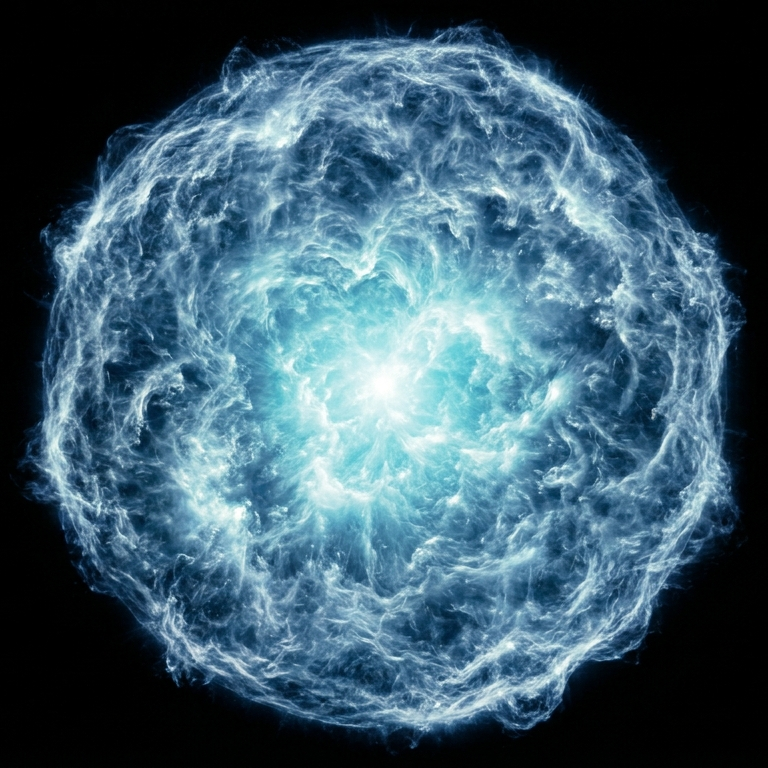
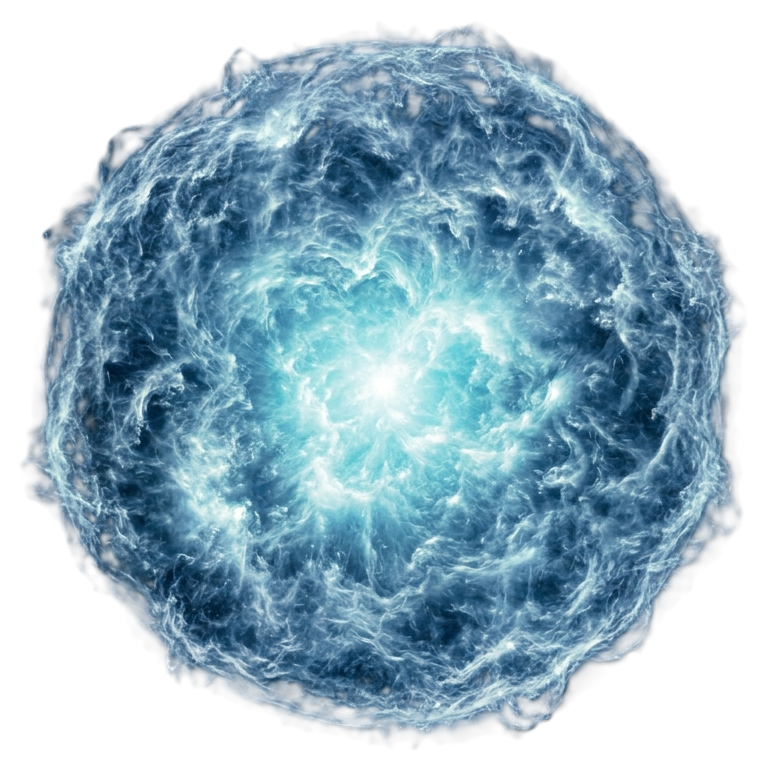
enemys spawning

diff --git a/src/main.ts b/src/main.ts
@@ -6,19 +6,45 @@ import { Bulett } from "./Bulett";
 export let wave: number = 0;
 let enemys: Enemy[] = [];
 let coins: number = 500;
+let spawnInterval: number;
 
 const startBTN: HTMLDivElement = document.querySelector(
 	".startBTN",
 ) as HTMLDivElement;
-const coinsSpan: HTMLSpanElement = document.querySelector(".coinSpan") as HTMLSpanElement
+const coinsSpan: HTMLSpanElement = document.querySelector(
+	".coinSpan",
+) as HTMLSpanElement;
 
-startBTN.addEventListener
+coinsSpan.innerHTML = coins.toString();
+startBTN.addEventListener("click", () => {
+	(document.querySelector(".startportal") as HTMLDivElement).style.opacity =
+		"1";
+	(document.querySelector(".endportal") as HTMLDivElement).style.opacity = "1";
+	EnemySpawner();
+	startBTN.style.display = "none";
+	spawnInterval = setInterval(() => {
+		enemys.forEach((e) => {
+			e.Move();
+		}, 16);
+	});
+});
 
-
-function KilledByTuret(e: Enemy): void {
+function Killed(e: Enemy): void {
 	let index: number = enemys.indexOf(e);
 	enemys.splice(index, 1);
 	e.Destroy();
 	coins += e.Reward;
-	coinsSpan.innerHTML = coins.toString()
+	coinsSpan.innerHTML = coins.toString();
+}
+
+function EnemySpawner(): void {
+	let amountToSpawn: number = Math.floor(23 * 1.2 ** (wave - 1));
+	for (let i = 0; i < amountToSpawn; i++) {
+		setTimeout(
+			() => {
+				enemys.push(new Enemy((e: Enemy) => Killed(e)));
+			},
+			i * (400 / 1.2 ** (wave - 1)),
+		);
+	}
 }

diff --git a/src/style.css b/src/style.css
@@ -2,14 +2,9 @@ body {
 	background-image: url(assets/Background.png);
 	background-size: cover;
 	background-repeat: repeat-y;
-}
-
-.curtain {
-	position: absolute;
-	z-index: 5;
-	width: 99%;
-	height: 95%;
-	background-color: black;
+	font-family:
+		"Gill Sans", "Gill Sans MT", Calibri, "Trebuchet MS", sans-serif;
+	user-select: none;
 }
 
 .topbar {
@@ -19,6 +14,7 @@ body {
 	margin-left: 50px;
 	margin-top: 20px;
 	z-index: 6;
+	cursor: default;
 }
 
 .wavedisplay {
@@ -26,7 +22,6 @@ body {
 	width: 20%;
 	color: white;
 	font-size: 30px;
-	z-index: 6;
 }
 
 .coin {
@@ -45,7 +40,6 @@ body {
 	width: 180px;
 	height: 60px;
 	background-repeat: repeat-x;
-	z-index: 6;
 }
 
 .gameArea {
@@ -67,6 +61,7 @@ body {
 	height: 320px;
 	z-index: 1;
 	margin-top: 200px;
+	transition: opacity 1.5s ease;
 }
 
 .endportal {
@@ -79,6 +74,7 @@ body {
 	z-index: 1;
 	margin-top: 150px;
 	right: 0px;
+	transition: opacity 1.5s ease;
 }
 
 .startBTN {
@@ -91,15 +87,16 @@ body {
 	top: 70%;
 	left: 50%;
 	translate: -50%;
-	z-index: 6;
+	cursor: pointer;
 }
 
 .enemy {
-	top: 300px;
-	left: 100px;
+	top: 350px;
 	width: 60px;
 	height: 60px;
 	position: absolute;
 	opacity: 0;
-	transition: opacity 0.5s ease;
+	transition: opacity 1.5s ease;
+	z-index: 1;
+	background-size: contain;
 }

diff --git a/src/Enemy.ts b/src/Enemy.ts
@@ -18,6 +18,9 @@ export class Enemy {
 		this.EnemyDiv.addEventListener("click", () => {
 			this.TakeDamage(2);
 		});
+		document.querySelector(".gameArea")?.appendChild(this.EnemyDiv);
+		this.EnemyDiv.style.left = "150px";
+		this.EnemyDiv.style.opacity = "1";
 	}
 
 	SetAttributes(): void {
@@ -30,26 +33,22 @@ export class Enemy {
 			availableTypes[Math.floor(Math.random() * availableTypes.length)];
 
 		if (this.Type === "Red") {
-			this.Speed = 100 * 1.1 ** (wave - 1);
+			this.Speed = 1 * 1.1 ** (wave - 1);
 			this.Hp = 200 * 1.3 ** (wave - 1);
 			this.Reward = 300 * 1.1 ** (wave - 1);
 		} else if (this.Type === "Yellow") {
-			this.Speed = 200 * 1.1 ** (wave - 1);
+			this.Speed = 2 * 1.1 ** (wave - 1);
 			this.Hp = 50 * 1.3 ** (wave - 1);
 			this.Reward = 200 * 1.1 ** (wave - 1);
 		} else if (this.Type === "Green") {
-			this.Speed = 50 * 1.1 ** (wave - 1);
+			this.Speed = 0.5 * 1.1 ** (wave - 1);
 			this.Hp = 200 * 1.3 ** (wave - 1);
 			this.Reward = 150 * 1.1 ** (wave - 1);
 		} else {
-			this.Speed = 100 * 1.1 ** (wave - 1);
+			this.Speed = 1 * 1.1 ** (wave - 1);
 			this.Hp = 100 * 1.3 ** (wave - 1);
 			this.Reward = 100 * 1.1 ** (wave - 1);
 		}
-		document.querySelector(".gameArea")?.appendChild(this.EnemyDiv);
-		setTimeout(() => {
-			this.EnemyDiv.style.opacity = "1";
-		});
 	}
 
 	TakeDamage(amount: number): void {
@@ -64,7 +63,7 @@ export class Enemy {
 	}
 
 	Move(): void {
-		let position: number = parseInt(this.EnemyDiv.style.left);
-		this.EnemyDiv.style.left = (position += 5).toString();
+		let position: number = Number(this.EnemyDiv.style.left.replace("px", ""));
+		this.EnemyDiv.style.left = (position += 1 * this.Speed).toString() + "px";
 	}
 }

diff --git a/index.html b/index.html
@@ -8,7 +8,6 @@
 		<script type="module" src="/src/main.ts" defer></script>
 	</head>
 	<body>
-		<div class="curtain"></div>
 		<div class="topbar">
 			<div class="wavedisplay">Wave: <span class="currentWaveSpan">0</span></div>
 			<div class="wavedisplay">Record: <span class="highscoreSpan">0</span></div>
@@ -16,8 +15,8 @@
 			<div class="coin">🪙<span class="coinSpan">0</span></div>
 		</div>
 		<div class="gameArea"></div>
-		<div class="startportal"></div>
-		<div class="endportal"></div>
-		<div class="startBTN">Start Game</div>
+		<div class="startportal" style="opacity: 0;"></div>
+		<div class="endportal" style="opacity: 0;"></div>
+		<button class="startBTN">Start First Wave</>
 	</body>
 </html>